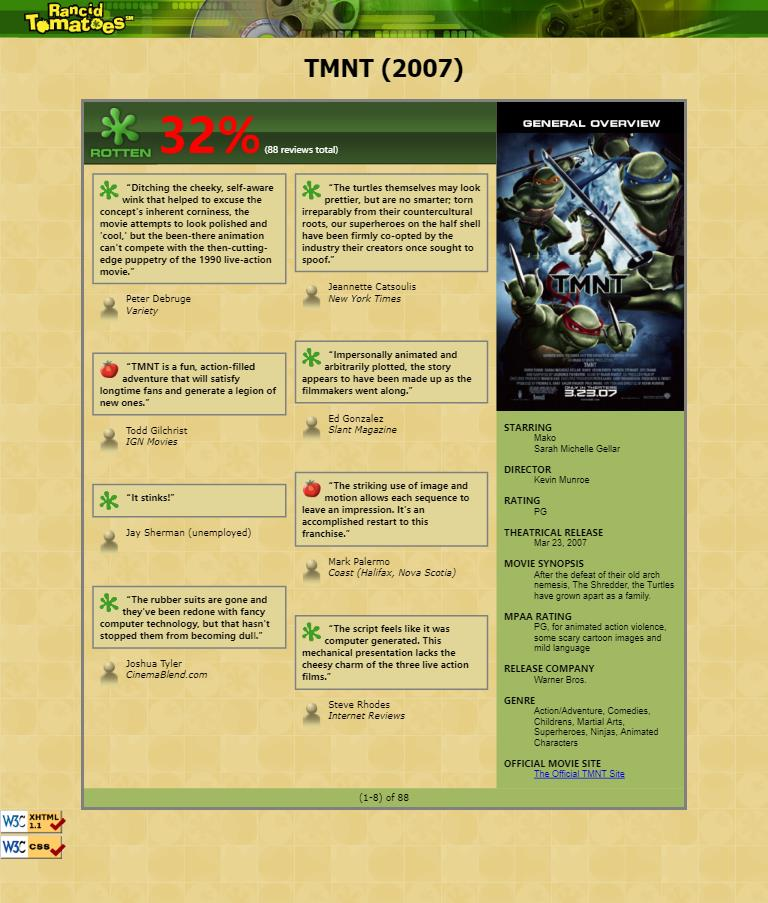
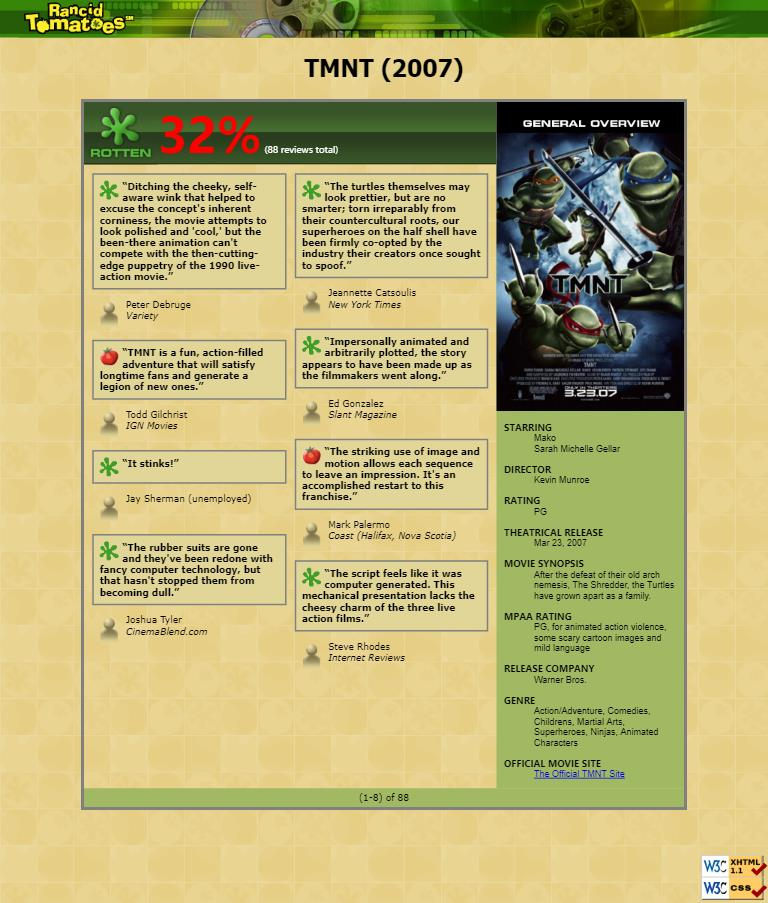
fin

diff --git a/tmnt.html b/tmnt.html
@@ -161,9 +161,11 @@
             <p class="pages">(1-8) of 88</p>
 		</div>
         <div>
-		<a href="http://validator.w3.org/check/referer">
+		<a href="http://validator.w3.org/check/referer" id="w1">
             <img src="http://www.cs.washington.edu/education/courses/cse190m/09sp/homework/2/w3c-xhtml.png" alt="Valid XHTML 1.1" /></a> <br />
-		<a href="http://jigsaw.w3.org/css-validator/check/referer"><img src="http://www.cs.washington.edu/education/courses/cse190m/09sp/homework/2/w3c-css.png" alt="Valid CSS!" /></a>
+		<a href="http://jigsaw.w3.org/css-validator/check/referer" id="w2">
+            <img src="http://www.cs.washington.edu/education/courses/cse190m/09sp/homework/2/w3c-css.png" alt="Valid CSS!" />
+        </a>
         </div>
 	</body>
 </html>

diff --git a/movie.css b/movie.css
@@ -4,7 +4,7 @@ body
     background-image: url(http://211.159.187.254/homework2/background.png) ;
     background-repeat: repeat;
     font-size: 8pt;
-    font-family: "Verdana","Tahoma","sans-serif";
+    font-family: Verdana,Tahoma,sans-serif;
     margin: 0;
 }
 .banner
@@ -93,7 +93,7 @@ h1
 .allborder
 {
     border: 2px solid grey;
-    font: bold 8pt black;
+    font-weight: bold;
     background-color: #E1D697;
     padding: 8px;
     overflow: hidden;
@@ -107,7 +107,6 @@ h1
 .quoter
 {
     overflow: hidden;
-    margin-bottom: 3em;
 }
 .quoterfont
 {
@@ -128,4 +127,16 @@ h1
     margin: 0;
 
     padding: 5px;
+}
+#w1
+{
+    position: fixed;
+    right: 1px;
+    bottom: 30px;
+}
+#w2
+{
+    position: fixed;
+    right: 1px;
+    bottom: 1px;
 }
